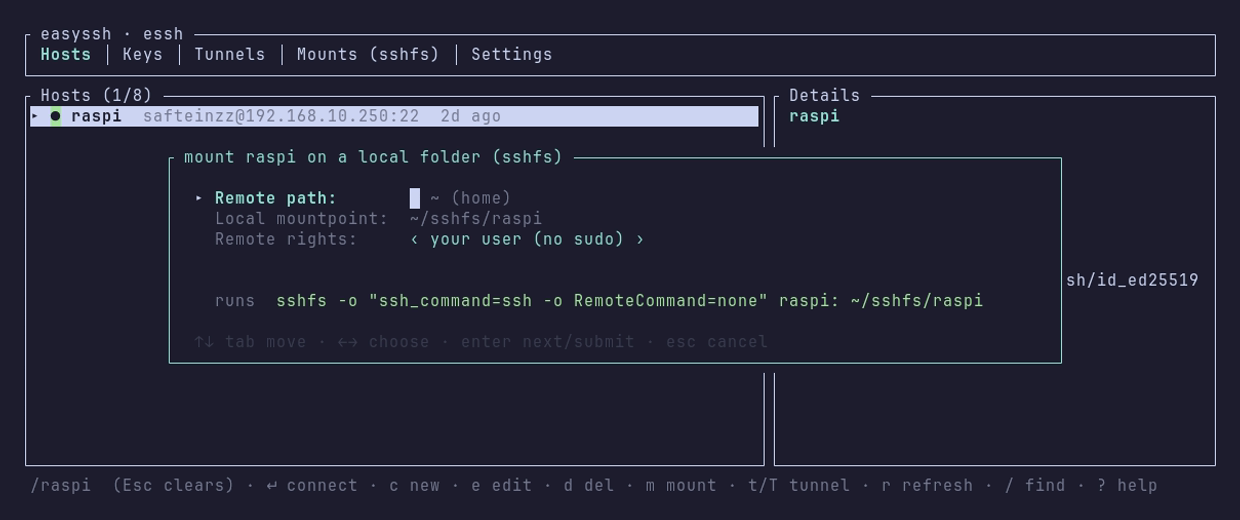
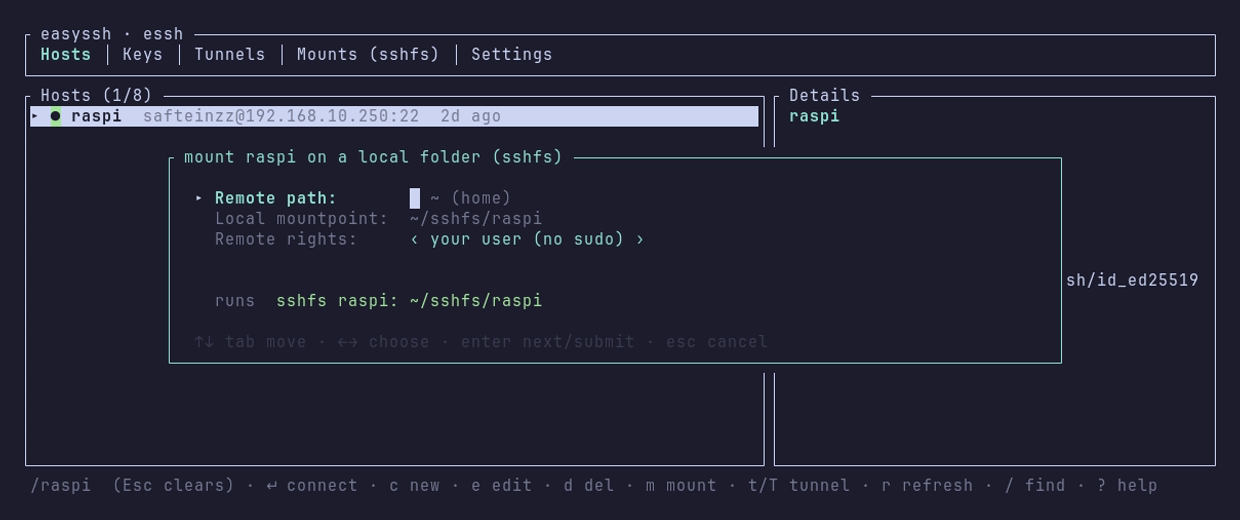
fix: a mount only cancels a forced command when there is one

Changed region(s): [[0.2758, 0.5538, 0.7968, 0.6154]]

diff --git a/src/tui/tests.rs b/src/tui/tests.rs
@@ -318,7 +318,7 @@ fn picker_fills_identityfile_field() {
 fn mount_defaults_under_the_mount_folder() {
     // Mountpoints group under one folder so leftovers do not scatter, and the
     // default is absolute so it does not depend on where essh was launched.
-    let p = Prompt::mount("raspi".into(), &Settings::default());
+    let p = Prompt::mount("raspi".into(), false, &Settings::default());
     let mountpoint = p
         .fields
         .iter()
@@ -350,14 +350,26 @@ fn mount_point_expands_tilde() {
 
 /// A mount wizard with the rights choice already set.
 fn mount_prompt(choice: usize) -> Prompt {
-    let mut p = Prompt::mount("crusader".into(), &Settings::default());
+    let mut p = Prompt::mount("crusader".into(), false, &Settings::default());
     p.fields[2].choice = choice;
     p
 }
 
 #[test]
 fn mount_without_sudo_is_a_plain_sshfs() {
-    let spec = MountSpec::from_fields("crusader", &mount_prompt(0).fields);
+    let spec = MountSpec::from_fields("crusader", false, &mount_prompt(0).fields);
+    let local = mount_point("~/sshfs/crusader", "");
+    assert_eq!(spec.argv(), vec!["sshfs", "crusader:", &local]);
+}
+
+#[test]
+fn a_host_that_forces_a_command_gets_the_ssh_client_wrapped() {
+    // A RemoteCommand would run instead of the sftp server and the mount would
+    // fail with nothing readable, and it cannot be passed to sshfs directly:
+    // libfuse rejects an ssh option outright, so it goes through ssh_command.
+    // Only for a host that really has one, or every mount carries a defence it
+    // does not need.
+    let spec = MountSpec::from_fields("crusader", true, &mount_prompt(0).fields);
     let local = mount_point("~/sshfs/crusader", "");
     assert_eq!(
         spec.argv(),
@@ -373,14 +385,12 @@ fn mount_without_sudo_is_a_plain_sshfs() {
 
 #[test]
 fn mount_with_nopasswd_sudo_wraps_the_server() {
-    let spec = MountSpec::from_fields("crusader", &mount_prompt(1).fields);
+    let spec = MountSpec::from_fields("crusader", false, &mount_prompt(1).fields);
     let local = mount_point("~/sshfs/crusader", "");
     assert_eq!(
         spec.argv(),
         vec![
             "sshfs",
-            "-o",
-            "ssh_command=ssh -o RemoteCommand=none",
             "-o",
             "sftp_server=sudo /usr/lib/openssh/sftp-server",
             "crusader:",
@@ -393,7 +403,7 @@ fn mount_with_nopasswd_sudo_wraps_the_server() {
 fn mount_never_offers_to_send_a_password() {
     // Every way of feeding sudo a password from here leaks it into `ps` on
     // both machines, so the mode does not exist: NOPASSWD or nothing.
-    let p = Prompt::mount("crusader".into(), &Settings::default());
+    let p = Prompt::mount("crusader".into(), false, &Settings::default());
     let options = match &p.fields[2].kind {
         Kind::Choice(o) => o.clone(),
         _ => panic!("the rights field must be a choice"),
@@ -406,7 +416,7 @@ fn mount_never_offers_to_send_a_password() {
             .all(|f| !f.label.to_lowercase().contains("password"))
     );
     for choice in 0..options.len() {
-        let argv = MountSpec::from_fields("crusader", &mount_prompt(choice).fields).argv();
+        let argv = MountSpec::from_fields("crusader", false, &mount_prompt(choice).fields).argv();
         assert!(
             !argv.iter().any(|a| a.contains("sudo -S")),
             "no password is ever piped to sudo"
@@ -420,12 +430,12 @@ fn mount_refuses_a_comma_in_the_server_path() {
     let mut p = mount_prompt(1);
     p.fields[3].value = "/usr/lib,openssh/sftp-server".into();
     assert!(
-        MountSpec::from_fields("crusader", &p.fields)
+        MountSpec::from_fields("crusader", false, &p.fields)
             .problem()
             .is_some()
     );
     assert!(
-        MountSpec::from_fields("crusader", &mount_prompt(1).fields)
+        MountSpec::from_fields("crusader", false, &mount_prompt(1).fields)
             .problem()
             .is_none()
     );
@@ -534,7 +544,7 @@ fn a_reverse_can_expose_something_that_is_not_this_machine() {
 fn mount_preview_matches_what_runs() {
     // The preview must resolve the mountpoint exactly like the run path, so it
     // goes through the same `mount_point`.
-    let mut p = Prompt::mount("raspi".into(), &Settings::default());
+    let mut p = Prompt::mount("raspi".into(), false, &Settings::default());
     let idx = p
         .fields
         .iter()
@@ -545,7 +555,7 @@ fn mount_preview_matches_what_runs() {
     // have typed it.
     assert_eq!(
         p.command_preview().unwrap(),
-        "sshfs -o \"ssh_command=ssh -o RemoteCommand=none\" raspi: ~/exampledirectory"
+        "sshfs raspi: ~/exampledirectory"
     );
     assert_eq!(
         sshcfg::expand_tilde("~/exampledirectory").to_string_lossy(),
@@ -651,7 +661,7 @@ fn the_mount_folder_setting_decides_where_a_mount_lands() {
     // to offer it, and the command that runs has to use what the wizard offered.
     let mut s = Settings::default();
     s.set("mount_root", "/mnt");
-    let p = Prompt::mount("raspi".into(), &s);
+    let p = Prompt::mount("raspi".into(), false, &s);
     let field = p
         .fields
         .iter()
@@ -659,7 +669,7 @@ fn the_mount_folder_setting_decides_where_a_mount_lands() {
         .unwrap();
     assert_eq!(field.default, "/mnt/raspi");
     assert_eq!(
-        MountSpec::from_fields("raspi", &p.fields).local,
+        MountSpec::from_fields("raspi", false, &p.fields).local,
         "/mnt/raspi",
         "a blank field runs what the box offered"
     );

diff --git a/src/tui/prompt.rs b/src/tui/prompt.rs
@@ -124,6 +124,10 @@ pub(crate) enum Action {
     },
     Mount {
         host: String,
+        /// Whether this host's config forces a command, and so whether the ssh
+        /// client has to be wrapped. Captured when the wizard opens, because
+        /// the preview cannot read `~/.ssh/config` for itself.
+        forced_command: bool,
     },
     /// Change one typed setting; cycled ones never open a wizard.
     EditSetting {
@@ -221,12 +225,15 @@ impl Prompt {
 
     /// The mount wizard. Its two defaults come from Settings, so "where do
     /// mounts go" and "where is the sftp server" are answered once, not per mount.
-    pub(super) fn mount(host: String, settings: &Settings) -> Self {
+    pub(super) fn mount(host: String, forced_command: bool, settings: &Settings) -> Self {
         let root = settings.mount_root.trim_end_matches('/');
         Self {
             title: format!("mount {host} on a local folder (sshfs)"),
             idx: 0,
-            action: Action::Mount { host: host.clone() },
+            action: Action::Mount {
+                host: host.clone(),
+                forced_command,
+            },
             fields: vec![
                 Field::new("Remote path", "~ (home)"),
                 Field::new("Local mountpoint", &format!("{root}/{host}")),
@@ -387,13 +394,16 @@ impl Prompt {
                 }
                 Some(cmd)
             }
-            Action::Mount { host } => {
+            Action::Mount {
+                host,
+                forced_command,
+            } => {
                 // Built from the same spec the run path uses, so the mountpoint
                 // and the sudo wrapping shown here are exactly what gets executed.
                 // The one difference is cosmetic: a path under home is shown the
                 // way you would type it, since a shell expands `~` itself and an
                 // absolute home path is unreadable in a box this wide.
-                let argv: Vec<String> = MountSpec::from_fields(host, &self.fields)
+                let argv: Vec<String> = MountSpec::from_fields(host, *forced_command, &self.fields)
                     .argv()
                     .into_iter()
                     .map(|a| sshcfg::collapse_tilde(&a))

diff --git a/src/tui/mount_spec.rs b/src/tui/mount_spec.rs
@@ -44,10 +44,14 @@ pub(crate) struct MountSpec {
     pub(crate) local: String,
     pub(crate) sudo: Sudo,
     pub(crate) server: String,
+    /// Whether this host's config forces a command, which is the only reason to
+    /// wrap the ssh client at all. Decided when the wizard opens, since the
+    /// preview cannot read the config for itself.
+    pub(crate) forced_command: bool,
 }
 
 impl MountSpec {
-    pub(super) fn from_fields(host: &str, fields: &[Field]) -> Self {
+    pub(super) fn from_fields(host: &str, forced_command: bool, fields: &[Field]) -> Self {
         let v = |i: usize| fields[i].value.trim();
         // Both of these fall back to the field's own default, which the mount
         // wizard filled in from Settings - so what runs is what the box offered.
@@ -62,6 +66,7 @@ impl MountSpec {
             local: mount_point(&fields[1].default, v(1)),
             sudo: Sudo::from_choice(fields[2].choice),
             server,
+            forced_command,
         }
     }
 
@@ -79,9 +84,14 @@ impl MountSpec {
         // sftp server, failing with nothing readable; `scp` immunises itself the
         // same way. It has to go through `ssh_command`, because libfuse checks
         // sshfs's options strictly and rejects an ssh one outright ("fuse:
-        // unknown option(s)") rather than passing it on.
-        argv.push("-o".into());
-        argv.push("ssh_command=ssh -o RemoteCommand=none".into());
+        // unknown option(s)") rather than passing it on. Only for a host that
+        // really forces one, though: on every other mount it is a no-op that
+        // makes the command twice as long as the one you would have typed, and
+        // the preview is there to teach the command, not to show our defences.
+        if self.forced_command {
+            argv.push("-o".into());
+            argv.push("ssh_command=ssh -o RemoteCommand=none".into());
+        }
         if let Some(opt) = self.sftp_server() {
             argv.push("-o".into());
             argv.push(opt);

diff --git a/src/tui/wizard.rs b/src/tui/wizard.rs
@@ -299,14 +299,17 @@ impl App {
                 })
             }
 
-            Action::Mount { host } => {
+            Action::Mount {
+                host,
+                forced_command,
+            } => {
                 // Fail early with an install hint rather than a cryptic spawn error.
                 if !mounts::sshfs_installed() {
                     self.set_failed("sshfs is not installed (apt install sshfs · pacman -S sshfs · dnf install fuse-sshfs)");
                     return None;
                 }
                 // Blank remote path → sshfs mounts the login home directory.
-                let spec = MountSpec::from_fields(&host, &prompt.fields);
+                let spec = MountSpec::from_fields(&host, forced_command, &prompt.fields);
                 if let Some(problem) = spec.problem() {
                     self.set_status(problem);
                     self.prompt = Some(prompt);
@@ -323,7 +326,11 @@ impl App {
                 self.new_mount = Some(local.clone());
                 Some(PendingRun {
                     argv: spec.argv(),
-                    label: format!("sshfs {host}: → {local}"),
+                    // Home-relative, like every other path the UI shows: the
+                    // panel and `Mount::describe` collapse it, and an absolute
+                    // one here is both longer and the only place a screenshot
+                    // would carry whoever rendered it.
+                    label: format!("sshfs {host}: → {}", sshcfg::collapse_tilde(&local)),
                     connect: None,
                 })
             }

diff --git a/src/sshcfg.rs b/src/sshcfg.rs
@@ -171,6 +171,29 @@ fn merge_hosts(parsed: Vec<Host>) -> Vec<Host> {
     merged
 }
 
+/// Would `ssh <alias>` run a forced command? Its own `RemoteCommand`, or one
+/// from a wildcard block that matches it: `merge_hosts` drops pattern blocks, so
+/// the host list on its own cannot answer this, and the answer decides whether
+/// `sshfs` has to be immunised against it. A pattern we cannot evaluate (`?` or
+/// a negation) answers yes, because the cost of a needless `RemoteCommand=none`
+/// is a longer command line and the cost of a missing one is a mount that fails
+/// with nothing readable.
+pub fn forces_command(alias: &str) -> bool {
+    let mut parsed = Vec::new();
+    parse_file(&config_path(), &mut parsed);
+    parsed
+        .iter()
+        .filter(|h| h.remote_command.is_some())
+        .any(|h| match () {
+            _ if h.alias == alias => true,
+            _ if !is_pattern(&h.alias) => false,
+            // `glob_match` understands `*` and nothing else, so anything richer
+            // is treated as a match rather than guessed at.
+            _ if h.alias.contains('?') || h.alias.contains('!') => true,
+            _ => glob_match(&h.alias, alias),
+        })
+}
+
 /// True for aliases that are match patterns rather than concrete hosts.
 fn is_pattern(alias: &str) -> bool {
     alias.contains('*') || alias.contains('?') || alias.contains('!')

diff --git a/src/tui/input.rs b/src/tui/input.rs
@@ -246,7 +246,10 @@ impl App {
             }
             KeyCode::Char('m') => {
                 let alias = self.selected_host()?.alias.clone();
-                self.prompt = Some(Prompt::mount(alias, &self.settings));
+                // Asked once, here, because the preview and the command that
+                // runs must agree and neither can read the config later.
+                let forced = sshcfg::forces_command(&alias);
+                self.prompt = Some(Prompt::mount(alias, forced, &self.settings));
                 None
             }
             KeyCode::Char('t') => {

diff --git a/AGENTS.md b/AGENTS.md
@@ -32,6 +32,7 @@ Working brief for an AI coding agent, not documentation for people (the README c
 - `demo/` holds the screenshot and GIF rig: `stage.sh` builds a fake `~/.ssh` in `demo/home` (fake hosts, generated keys, seeded history, placeholder tunnels) with HOME and every XDG variable redirected into it, and the VHS tapes render `readme-assets/` from it. A tunnel, a mount and a login cannot be faked, so `raspi` points at a real machine only when `ESSH_DEMO_HOST` is set; nothing personal is ever in the repo. `stage.sh down` unmounts anything under the stage before deleting it and refuses if that fails, because a recursive delete walks straight through a mountpoint and onto the remote side - that is not hypothetical, it cost a real machine its dotfiles.
 - The demo rig is standardised across every crate in this directory, and the three parts that make the frames match must stay identical: the staged shell wears the invented `user@host` prompt written by `write_demorc`, every tape sets `Set Theme "Catppuccin Mocha"` (VHS's own default is a near-black that is harsher to read than Catppuccin's `#1e1e2e`), and every tape sets `Set FontFamily "JetBrainsMono NF"`. It is not about hiding a username, which is no leak - the pictures are a build output, and one that comes out different on every machine that regenerates it is not reproducible.
 - **A tape opens the staged shell with `exec`.** `Type "exec ./stage.sh shell"`, never a bare one: the stage guard refuses when the stage is missing, but a refusal only exits that script - the outer shell survives and every keystroke after it, the app included, runs against the renderer's **real** home, which is how a README image ends up showing somebody's actual data. With `exec` the refusal takes the terminal with it and the render fails loudly. This has happened; it is not hypothetical.
+- **A staged `HOME` does not move ssh's own config.** Not a quirk of one build: OpenSSH expands a leading `~` through `tilde_expand` in `misc.c`, which takes the home directory from `getpwnam()`/`getpwuid()` (`pw->pw_dir`) and never reads `$HOME`, and `ssh.c` builds the user config path with `tilde_expand_filename(_PATH_SSH_USER_CONFFILE, ...)`. Verified here too: `HOME=/tmp/nowhere ssh -G -v somehost` reads `/home/<you>/.ssh/config` (OpenSSH_10.4p1). What it means for the rig: essh reads the staged config, because it honours `HOME`, while the `ssh` it spawns reads the renderer's real one, so a `RemoteCommand` or a `ProxyJump` in your own `~/.ssh/config` can break a staged mount or tunnel while the frame shows a host that has neither. That cost a render of `mounts.png` once. `ssh -F <file>` does override it, but production essh must not pass `-F`, so the rig's answer is to keep the renderer's own config out of the way rather than to work around it in the tool.
 - Everything staged runs under `env -i` with a complete allowlist, never the real environment plus overrides, because an exported variable nobody thought of is exactly how a real config dir, a real endpoint or a real key ends up in a frame. The rig also writes only inside the stage, so nothing of the renderer's is touched on disk.
 - Teardown goes through `assert_safe_to_delete`, word-for-word the same function in every crate's rig: the stage path must be absolute, must not be a system directory or the renderer's home, must resolve through its symlinks to a tree carrying the marker file the build stamped, and must have nothing mounted under it, with `rm -rf --one-file-system` behind that. Test the refusals after touching them, never just the happy path - an sshfs mount inside a staged home, torn down with a plain `rm -rf`, has already deleted the dotfiles on the machine at the far end.
 - `.nocommit/` (gitignored) holds reference material used only to inform work here - other projects, notes, drafts - and never ships; keep it out of anything user-facing (commit messages, code, comments, README, `--help`), since a reference to material nobody outside this machine can see means nothing to them and just clutters the record.
@@ -40,7 +41,7 @@ Working brief for an AI coding agent, not documentation for people (the README c
 
 ## Invariants and gotchas
 - When adding a host with an IdentityFile: if exactly one shared block (a `Host a b c` line with 2+ concrete aliases) already sets that same key, append the new alias to that block and give the new host a block without its own IdentityFile; otherwise write a self-contained block. Never join a one-alias block (that is a normal per-host block, not a group) and never touch a block when zero or several match, so the tool only ever extends a group the user already made shared.
-- When a host sets a `RemoteCommand`: write `RequestTTY yes` beside it (`render_block_lines` does), or the forced command comes back without a terminal and the shell has no prompt and no line editing. ssh refuses a command line on top of one (`Cannot execute command-line and remote command.`), so `essh <alias> <cmd>` fails on such a host by design; `ssh -N` is unaffected, so tunnels still work, `scp` passes `-oRemoteCommand=none` itself, and our sshfs argv gets the same immunity through `-o ssh_command=ssh -o RemoteCommand=none`, which is the only route that works: libfuse checks sshfs's options strictly and answers an ssh option with `fuse: unknown option(s)` instead of forwarding it, so passing `-o RemoteCommand=none` to sshfs directly fails every mount. Never append `RemoteCommand` to a shared `Host a b c` block: unlike an IdentityFile it is per-host, and it would force the command on every alias in the group.
+- When a host sets a `RemoteCommand`: write `RequestTTY yes` beside it (`render_block_lines` does), or the forced command comes back without a terminal and the shell has no prompt and no line editing. ssh refuses a command line on top of one (`Cannot execute command-line and remote command.`), so `essh <alias> <cmd>` fails on such a host by design; `ssh -N` is unaffected, so tunnels still work, `scp` passes `-oRemoteCommand=none` itself, and our sshfs argv gets the same immunity through `-o ssh_command=ssh -o RemoteCommand=none`, which is the only route that works: libfuse checks sshfs's options strictly and answers an ssh option with `fuse: unknown option(s)` instead of forwarding it, so passing `-o RemoteCommand=none` to sshfs directly fails every mount. That wrapper is added **only for a host that really forces a command** (`sshcfg::forces_command`, asked once when the wizard opens and carried in `Action::Mount`): on every other mount it is a no-op that doubles the length of the command the preview exists to teach. It cannot be answered from the host list alone, because `merge_hosts` drops the pattern blocks and a `Host *` can force one; a pattern too rich for `glob_match` answers yes, since a needless `RemoteCommand=none` costs a longer line and a missing one costs a mount that fails with nothing readable. Never append `RemoteCommand` to a shared `Host a b c` block: unlike an IdentityFile it is per-host, and it would force the command on every alias in the group.
 - When adding a host from a paste: a `[user@]host[:port]` typed into the add wizard's Alias field is split across the fields when you leave it (`sshcfg::parse_target`), but only in the add wizard - doing it while editing would rename an existing host behind the user's back - and only for a string that really is a destination, since a plain word is somebody typing an alias.
 - When listing hosts: one alias may be defined across several `Host` blocks (a per-host block for HostName/User plus a shared `Host a b c` block adding a common IdentityFile); `merge_hosts` collapses them into a single entry with ssh's first-value-wins per field, so never emit one entry per block.
 - When editing or deleting a host: it only works when the alias is the sole name on its `Host` line, and a shared `Host a b` block is refused because one alias cannot be rewritten in isolation. Every config write backs up first to `config.bak.<epoch>` and rewrites only the touched block, never reformatting the file.
